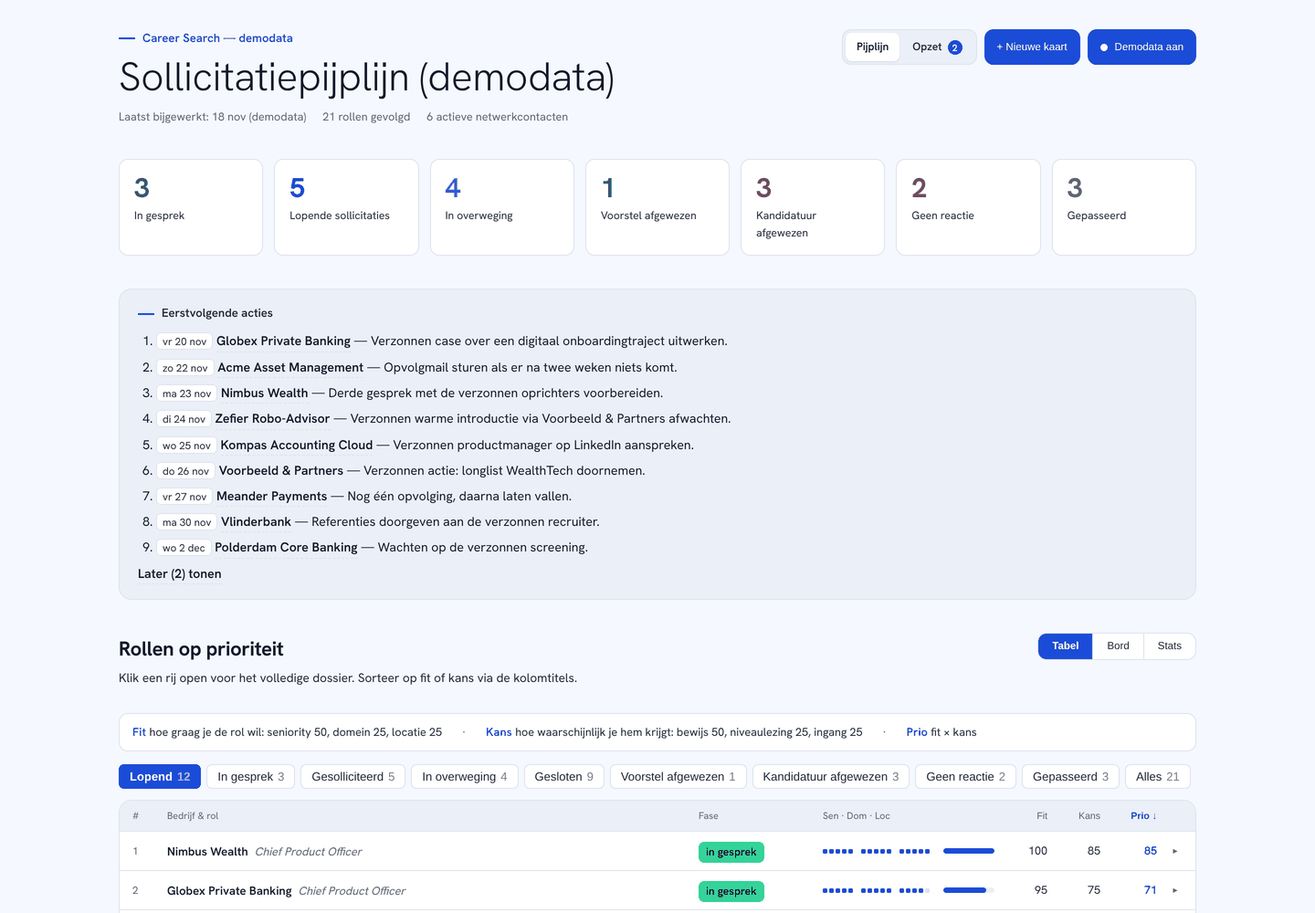
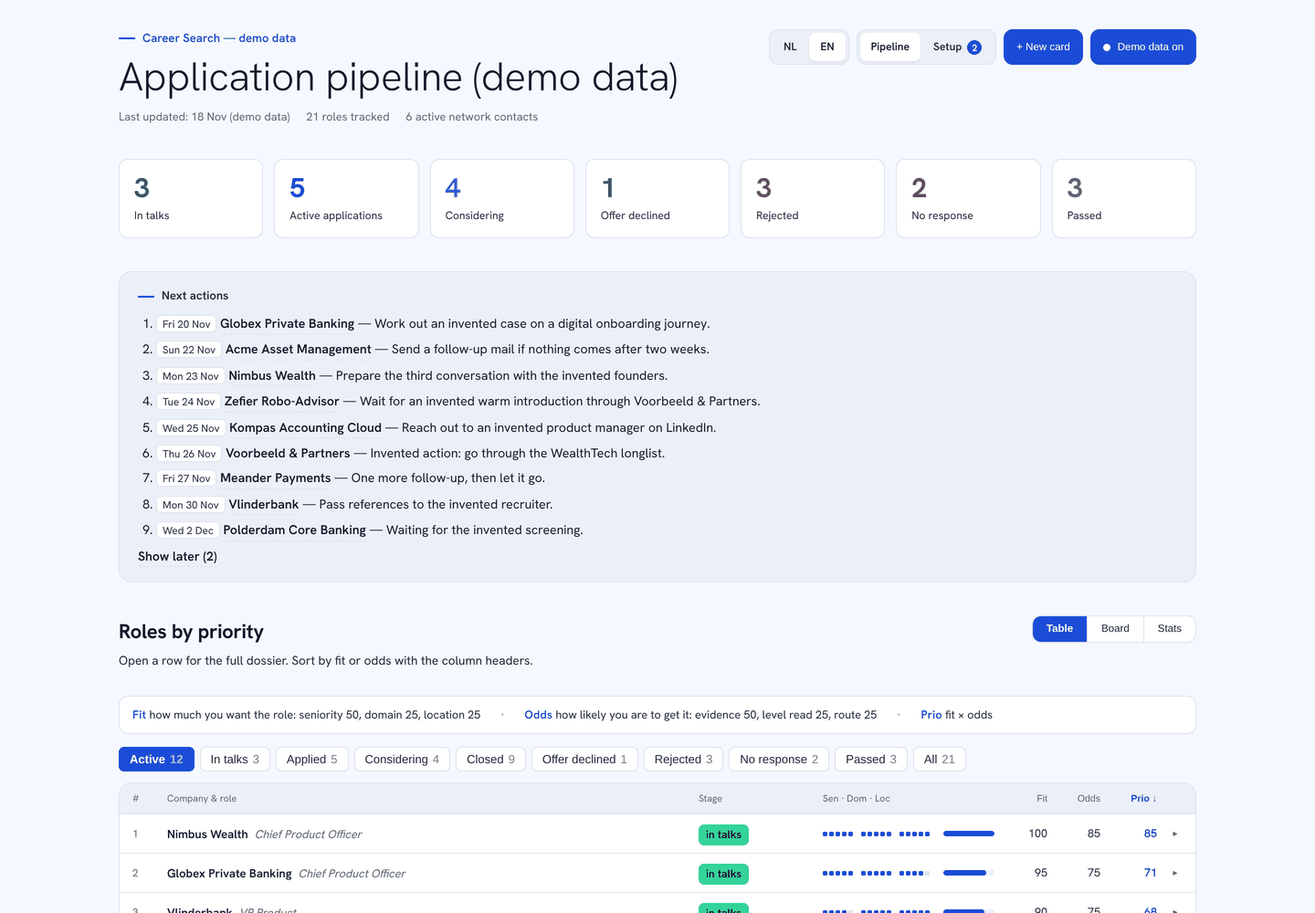
Pipeline board: NL/EN switch (0.5.0); English screenshots
Claude-Session: https://claude.ai/code/session_01RCXGWAHNYweCDBp5A3FN8U

diff --git a/plugins/career-search/skills/career-pipeline-tracker/assets/pipeline-board.html b/plugins/career-search/skills/career-pipeline-tracker/assets/pipeline-board.html
@@ -612,6 +612,7 @@
       <div class="meta-row" id="metaRow"></div>
     </div>
     <div class="head-actions">
+      <div class="page-switch lang-switch" role="group" aria-label="Taal"><button type="button" data-lang="nl" aria-pressed="true">NL</button><button type="button" data-lang="en" aria-pressed="false">EN</button></div>
       <div class="page-switch" role="group" aria-label="Pagina"><button type="button" data-page="pipe" aria-pressed="true">Pijplijn</button><button type="button" data-page="setup" aria-pressed="false">Opzet <span class="badge" id="setupBadge" hidden></span></button></div>
       <button type="button" class="btn primary" id="newCardBtn">+ Nieuwe kaart</button>
       <button type="button" class="anon-toggle" id="anonToggle" aria-pressed="false" title="Wissel naar een volledig verzonnen pijplijn">
@@ -2123,6 +2124,7 @@
       "",
       "VELDEN: stage = interview | applied | explore | declined | rejected | noreply | ruledout. Gebruik rejected enkel bij een expliciet nee, noreply bij stilte of een vacature die dichtging zonder antwoord, declined wanneer {{FIRST_NAME}} een aanbod kreeg en het zelf afwees, en ruledout wanneer {{FIRST_NAME}} passeert voor er een aanbod lag. pillLabel = kort Nederlands label (bv. 'interview 20 okt'). dateStamp = korte voetregel, bestaande tekst aanvullen met ' · ' (bv. 'gesolliciteerd 20 sept · interview 20 okt'). Datums ISO (YYYY-MM-DD). motivationLetter = yes|no|unknown. applicationType = easy_apply|extended|unknown.",
       "",
+      (window.__boardLang === "en" ? "TAAL: de gebruiker leest het bord in het Engels. Schrijf je antwoord én alle veldteksten (pillLabel, detail, nextStep, dateStamp, dossier, logregels) in het Engels." : ""),
       "STIJL: Nederlands, kort en direct. Veldteksten als compacte zinsfragmenten, zoals de bestaande data. Geen em-dashes. Je antwoord aan {{FIRST_NAME}}: gewone tekst, enkele korte alinea's, geen markdown-koppen. Eindig na een wijziging met één zin over wat je aanpaste.",
       "",
       "KAART (id " + id + "):",
@@ -2434,7 +2436,7 @@
       "2. Zes regels, één per component, in gewone tekst: 'Seniority 4: …', 'Domein 3: …', 'Locatie 5: …', 'Bewijs 3: …', 'Niveau 4: …', 'Ingang 2: …'. Eén zin per regel. Meld mandaatregel of org-scope-modifier als die spelen.",
       "3. Eén regel 'Fit X · Kans Y · Prio Z · band B'.",
       "4. Daarna één ```json codeblok met één object met deze velden: id (kleine letters met koppeltekens, bedrijfsnaam), company, role (functietitel + locatie/hybride), stage ('explore' tenzij {{FIRST_NAME}} iets anders zegt), pillLabel (kort Nederlands), detail (1-3 zinnen Nederlands: wat het bedrijf is, de rol, sterkste punten en gaten; compacte stijl, geen em-dashes), nextStep, nextStepDate (ISO-datum waarop {{FIRST_NAME}} de volgende stap zet; standaard binnen een week), dateStamp (bv. 'op radar " + shortDate(today()) + "'), dateOnRadar ('" + today() + "'), vacancyUrl (of ''), applyUrl (of ''), senScore, domScore, locScore, evScore, lvlScore, rteScore, reasoning (object met sen, dom, loc, ev, lvl, rte: dezelfde zinnen als hierboven), dossier (korte tekst met kopjes 'Bron:', 'Open vragen:').",
-      "Geen markdown-koppen, geen em-dashes, Nederlands."
+      (window.__boardLang === "en" ? "No markdown headings, no em dashes, English: all field texts in English." : "Geen markdown-koppen, geen em-dashes, Nederlands.")
     ].join("\n");
     var full = "", ok = false;
     function visible(t){ var i = t.indexOf("```"); return (i === -1 ? t : t.slice(0, i)).trim(); }
@@ -2805,4 +2807,145 @@
 
 
 
+
+<script>
+// =========================================================================
+// NL / EN. The page is written in Dutch; in English mode every text node and
+// placeholder/title/aria-label is swapped through a dictionary (exact match)
+// and a few patterns for texts with numbers and dates. Data the candidate
+// wrote stays in the language it was written in. The original Dutch is kept
+// per node, so switching back restores it without a reload.
+// =========================================================================
+(function(){
+  var DEFAULT_LANG = "nl";
+  var EN = {"Pijplijn": "Pipeline", "Opzet": "Setup", "Pagina": "Page", "Taal": "Language", "+ Nieuwe kaart": "+ New card", "Nieuwe kaart": "New card", "Demodata": "Demo data", "Demodata aan": "Demo data on", "Demodata.": "Demo data.", "Wissel naar een volledig verzonnen pijplijn": "Switch to a fully invented pipeline", "Sollicitatiepijplijn": "Application pipeline", "Sollicitatiepijplijn (demodata)": "Application pipeline (demo data)", "Career Search — demodata": "Career Search — demo data", "Alle bedrijven, contacten, data, scores en statussen op deze pagina zijn verzonnen. De echte pijplijn wordt in deze weergave niet gelezen en niet getoond, dus een demo geeft niets prijs over waar de zoektocht staat. Het dossierpaneel, het logboek en de chat werken gewoon, maar schrijven enkel naar het geheugen van deze browser: ververs de pagina en de demo staat weer op de beginstand.": "All companies, contacts, dates, scores and statuses on this page are invented. The real pipeline is not read or shown in this view, so a demo reveals nothing about where the search stands. The dossier panel, the log and the chat work as usual, but only write to this browser's memory: refresh the page and the demo is back to its starting state.", "Kan de gegevensopslag van deze pagina niet bereiken. Ververs de pagina, of vraag Claude de data opnieuw te schrijven.": "Can't reach this page's data store. Refresh the page, or ask Claude to write the data again.", "In gesprek": "In talks", "Lopende sollicitaties": "Active applications", "In overweging": "Considering", "Voorstel afgewezen": "Offer declined", "Kandidatuur afgewezen": "Rejected", "Geen reactie": "No response", "Gepasseerd": "Passed", "Gesloten": "Closed", "Gesolliciteerd": "Applied", "Lopend": "Active", "Alles": "All", "in gesprek": "in talks", "gesolliciteerd": "applied", "overweging": "considering", "voorstel afgewezen": "offer declined", "kandidatuur afgewezen": "rejected", "geen reactie": "no response", "gepasseerd": "passed", "geen antwoord": "no answer", "Eerstvolgende acties": "Next actions", "Rollen op prioriteit": "Roles by priority", "Rollen per fase": "Roles by stage", "Wat de pijplijn tot nu toe oplevert": "What the pipeline has produced so far", "Klik een rij open voor het volledige dossier. Sorteer op fit of kans via de kolomtitels.": "Open a row for the full dossier. Sort by fit or odds with the column headers.", "Van eerste screening tot afgesloten dossier. Binnen elke kolom staan de kaarten op prioriteit.": "From first screening to closed dossier. Within each column, cards are sorted by priority.", "Uitkomsten van de afgesloten dossiers, de reactiegraad op verstuurde sollicitaties, en waar de lopende pijplijn op de drie criteria staat.": "Outcomes of closed dossiers, the response rate on applications sent, and where the active pipeline stands on the three criteria.", "Weergave": "View", "Tabel": "Table", "Bord": "Board", "Stats": "Stats", "Fit": "Fit", "Kans": "Odds", "Prio": "Prio", "Prio ↓": "Prio ↓", "· Kans": "· Odds", "· Prio": "· Prio", "hoe graag je de rol wil: seniority 50, domein 25, locatie 25": "how much you want the role: seniority 50, domain 25, location 25", "hoe waarschijnlijk je hem krijgt: bewijs 50, niveaulezing 25, ingang 25": "how likely you are to get it: evidence 50, level read 25, route 25", "fit × kans": "fit × odds", "#": "#", "Bedrijf & rol": "Company & role", "Fase": "Stage", "Sen · Dom · Loc": "Sen · Dom · Loc", "Vacature ↗": "Posting ↗", "Solliciteren ↗": "Apply ↗", "Dossier & chat ›": "Dossier & chat ›", "Demodossier, volledig verzonnen.": "Demo dossier, fully invented.", "Uitkomst van de afgesloten dossiers": "Outcome of closed dossiers", "Reactiegraad op verstuurde sollicitaties": "Response rate on applications sent", "Geantwoord zijn de tegels": "Answered are the tiles", "Geantwoord": "Answered", "Wachten": "Waiting", "Geen antwoord na sollicitatie": "No answer after applying", "Totaal verstuurd": "Total sent", "Mediane tijd tot afwijzing": "Median time to rejection", "Snelste": "Fastest", "· traagste": "· slowest", "dagen": "days", "Een nee binnen enkele dagen is bijna altijd een harde domeingap of een niveaulezing. Stilte zegt vooral iets over het kanaal, niet over het dossier.": "A no within a few days is almost always a hard domain gap or a level read. Silence says more about the channel than about the dossier.", "Fit tegen kans": "Fit against odds", "Houd de cursor op een stip voor bedrijf en scores.": "Hover over a dot for company and scores.", "Spreidingsdiagram van fit tegen kans per lopende rol": "Scatter plot of fit against odds per active role", "rollen zitten boven de mediane fit maar onder de mediane kans: hoge aantrekkelijkheid, lage slaagkans, dus daar werkt een introductie beter dan een zoveelste sollicitatie.": "roles sit above the median fit but below the median odds: attractive but hard to win, so an introduction works better there than yet another application.", "Samenstelling van de lopende pijplijn": "Make-up of the active pipeline", "donkerder is een hogere score": "darker is a higher score", "Hier zie je waar de pijplijn scheef zit. Veel massa links bij": "This shows where the pipeline is skewed. A lot of mass on the left at", "betekent dat je vooral buiten de dagpendelzone solliciteert, veel massa links bij": "means you mostly apply outside daily-commute range, a lot of mass on the left at", "dat je onder je eigen niveau zit.": "means you are below your own level.", "en": "and", "is jouw eigen beslissing voor er iets gebeurde,": "is your own decision before anything happened,", "is een aanbod dat je zelf geweigerd hebt,": "is an offer you turned down yourself,", "is een expliciet nee op jouw kandidatuur,": "is an explicit no to your application,", "is stilte of een vacature die dichtging zonder antwoord. De grootste groep is nu": "is silence, or a posting that closed without an answer. The largest group now is", "zijn dossiers die nog in gesolliciteerd staan, dus nog niet beantwoord en nog niet stil. Passeerde je een dossier nadat je solliciteerde, dan telt het hier als": "are dossiers still in applied: not answered yet, and not silent yet. If you passed on a dossier after applying, it counts here as", ": zij lieten niets horen. Passeerde je voor je solliciteerde, dan staat er niets om op te antwoorden en telt het hier niet mee.": ": they never replied. If you passed before applying, there was nothing to answer and it doesn't count here.", "Sen": "Sen", "Dom": "Dom", "Loc": "Loc", "Netwerk & recruiters": "Network & recruiters", "Losstaand van formele sollicitaties: warme contacten, recruiters en verkennende gesprekken. Klik op een statustekst om het volledige verhaal op volle breedte te lezen.": "Apart from formal applications: warm contacts, recruiters and exploratory conversations. Click a status text to read the full story at full width.", "Contact": "Contact", "Type": "Type", "Organisatie / rol": "Organisation / role", "Status": "Status", "Laatste actie": "Last action", "Sorteer op laatste actie": "Sort by last action", "Afgesloten contacten": "Closed contacts", "Alle types": "All types", "Executive search": "Executive search", "Consultancy": "Consultancy", "Overig": "Other", "Geen gekoppelde contacten.": "No linked contacts.", "Top-of-funnel:": "Top of funnel:", "Deze weergave bevat geen enkele regel uit een echt dossier.": "This view contains not a single line from a real dossier.", "Sluiten": "Close", "Versturen": "Send", "Stop": "Stop", "Chat": "Chat", "Kaart": "Card", "▸ Dossier": "▸ Dossier", "Enter verstuurt · Shift+Enter nieuwe regel": "Enter sends · Shift+Enter new line", "Nieuws, een update of een vraag over dit dossier…": "News, an update or a question about this dossier…", "Plak een vacature, een link met wat context, of beschrijf bedrijf en rol.": "Paste a posting, a link with some context, or describe the company and role.", "Plak hier de vacature of beschrijf bedrijf en rol…": "Paste the posting here or describe the company and role…", "Klik op de knop om een voorstel te maken": "Click the button to get a proposal", "Voorstel maken": "Make a proposal", "Opnieuw voorstellen": "Propose again", "Kaart aanmaken": "Create card", "Claude legt eerst per scorecomponent uit hoe hij scoort, en stelt daarna de kaart voor. Je ziet de redenering verschijnen terwijl hij schrijft. Er wordt niets aangemaakt voor je op de knop klikt. Een researchbrief of CV maak je daarna in Cowork.": "Claude first explains each score component, then proposes the card. You see the reasoning appear as it writes. Nothing is created until you click the button. Make a research brief or CV afterwards in a Claude task.", "Scoremodel lezen en nadenken": "Reading the scoring model and thinking", "Scoremodel lezen": "Reading the scoring model", "Nadenken over de rol": "Thinking about the role", "Kaart opstellen": "Drafting the card", "Redeneert": "Reasoning", "Denkt na": "Thinking", "1 · Nadenken": "1 · Thinking", "Kaart bijwerken": "Updating card", "Dossier bijwerken": "Updating dossier", "Logboek bijwerken": "Updating log", "Contact bijwerken": "Updating contact", "Ongedaan maken": "Undo", "Gestopt.": "Stopped.", "Verder in Cowork ⧉": "Continue in a Claude task ⧉", "Gekopieerd: plak in een nieuwe Cowork-taak": "Copied: paste into a new Claude task", "Kopieer de tekst hieronder": "Copy the text below", "De chat is niet beschikbaar in deze weergave.": "Chat isn't available in this view.", "De chat is niet beschikbaar in deze weergave. Open de pijplijn in de Claude-app.": "Chat isn't available in this view. Open the pipeline in the Claude app.", "De chat is niet toegestaan of niet beschikbaar in deze weergave.": "Chat isn't allowed or available in this view.", "Claude weigerde dit verzoek. Formuleer het anders.": "Claude declined this request. Try phrasing it differently.", "Er ging iets mis met de verbinding. Probeer opnieuw.": "Something went wrong with the connection. Try again.", "Even te veel vragen of je gebruikslimiet is bereikt. Probeer het straks opnieuw.": "Too many requests, or your usage limit is reached. Try again later.", "Het voorstel kwam niet in het juiste formaat terug. Probeer opnieuw.": "The proposal came back in the wrong format. Try again.", "Je sessie is verlopen. Meld je opnieuw aan.": "Your session has expired. Sign in again.", "Waar je systeem staat: wat klaar is, wat nog open staat, en vragen om je verhaal gaandeweg aan te vullen.": "Where your system stands: what's done, what's still open, and questions to complete your story as you go.", "stappen klaar, zonder de optionele": "steps done, optional ones excluded", "Takenlijst": "To-do list", "Kopieer de opdracht en plak ze in een nieuwe taak bij Claude.": "Copy the instruction and paste it into a new Claude task.", "Quick start": "Quick start", "Verdieping": "Deepening", "Optioneel": "Optional", "Kopieer opdracht": "Copy instruction", "Gekopieerd": "Copied", "Kopieer hieronder": "Copy below", "Vereisten": "Requirements", "OK": "OK", "Ontbreekt": "Missing", "Onbekend": "Unknown", "Links": "Links", "Updates": "Updates", "Vragen over je verhaal": "Questions about your story", "Claude zet hier vragen wanneer je CV of je verhaal een gat heeft. Antwoord wanneer het je uitkomt; bij je volgende taak verwerkt Claude de antwoorden in je narrative.": "Claude adds questions here when your CV or your story has a gap. Answer whenever it suits you; at your next task Claude works the answers into your narrative.", "Jouw antwoord, in je eigen woorden. Cijfers en voorbeelden helpen het meest.": "Your answer, in your own words. Numbers and examples help most.", "Niet van toepassing": "Not applicable", "Bewaar antwoord": "Save answer", "Wacht op verwerking door Claude": "Waiting for Claude to process it", "Geen open vragen.": "No open questions.", "CV opladen": "Upload CV", "Oud CV en LinkedIn-export gelezen.": "Old CV and LinkedIn export read.", "Eerste versie van je verhaal": "First version of your story", "Opgebouwd uit het CV; aangevuld via de vragen hieronder.": "Built from the CV; completed through the questions below.", "Generiek CV gerenderd": "Generic CV rendered", "Eén variant, alle regels nog ⏳.": "One variant, all lines still ⏳.", "Eerste vacature analyseren": "Analyse a first vacancy", "Plak een vacature in een nieuwe chat.": "Paste a vacancy into a new chat.", "Doelrollen en CV-varianten": "Target roles and CV variants", "Standing rules": "Standing rules", "Zoekcriteria en LinkedIn-alerts": "Search criteria and LinkedIn alerts", "Scoremodel": "Scoring model", "Dagelijkse LinkedIn-screening": "Daily LinkedIn screening", "CV in je eigen huisstijl": "CV in your own house style", "Claude desktop-app met je map gekoppeld": "Claude desktop app with your folder connected", "Browser met LinkedIn ingelogd": "Browser signed in to LinkedIn", "Installeer Claude in Chrome en log in op LinkedIn in Chrome.": "Install Claude in Chrome and sign in to LinkedIn in Chrome.", "Geplande taken": "Scheduled tasks", "Wordt gecontroleerd bij het opzetten van de screening.": "Checked when the screening is set up.", "Generiek CV (PDF)": "Generic CV (PDF)", "Handleiding (README)": "Guide (README)", "Hoe de vier fases werken": "How the four phases work", "Generiek CV opnieuw gerenderd na drie nieuwe antwoorden.": "Generic CV re-rendered after three new answers.", "Plugin bijgewerkt naar 0.4.0: setup-dashboard en vragen.": "Plugin updated to 0.4.0: setup dashboard and questions.", "Hoe groot was je team bij Fictief BV, en rapporteerde je aan de CEO?": "How big was your team at Fictief BV, and did you report to the CEO?", "Bepaalt of de headline 'Head of' of 'Director' mag zeggen, en verbetert de contextregel van die rol.": "Decides whether the headline may say 'Head of' or 'Director', and improves that role's context line.", "Welk meetbaar resultaat hoort bij de migratie naar het nieuwe platform?": "Which measurable result belongs to the migration to the new platform?", "Die bullet heeft nu geen cijfer; met een resultaat wordt hij een van je sterkste regels.": "That bullet has no number yet; with a result it becomes one of your strongest lines.", "Heb je ooit een budget beheerd? Hoe groot?": "Have you ever managed a budget? How big?", "Gevraagd in twee recente vacatures.": "Asked for in two recent postings.", "Ja, het productbudget van 1,2 M€ per jaar, sinds 2023.": "Yes, the product budget of €1.2M a year, since 2023.", "Laten we mijn doelrollen en CV-varianten vastleggen.": "Let's define my target roles and CV variants.", "Help me mijn standing rules opstellen: wat mag ik wel en niet claimen?": "Help me write my standing rules: what may and may I not claim?", "Laten we mijn zoekcriteria en LinkedIn-alerts opzetten.": "Let's set up my search criteria and LinkedIn alerts.", "Stel samen met mij mijn scoremodel op.": "Let's build my scoring model together.", "Zet de dagelijkse LinkedIn-screening op.": "Set up the daily LinkedIn screening.", "Breng mijn CV in lijn met mijn huisstijl.": "Align my CV with my house style.", "Verzonnen dossier, enkel om de werking te tonen.": "Invented dossier, only to show how it works.", "Derde gesprek met de verzonnen oprichters voorbereiden.": "Prepare the third conversation with the invented founders.", "Nog één opvolging, daarna laten vallen.": "One more follow-up, then let it go.", "Opvolgmail sturen als er na twee weken niets komt.": "Send a follow-up mail if nothing comes after two weeks.", "Referenties doorgeven aan de verzonnen recruiter.": "Pass references to the invented recruiter.", "Verzonnen actie: longlist WealthTech doornemen.": "Invented action: go through the WealthTech longlist.", "Verzonnen case over een digitaal onboardingtraject uitwerken.": "Work out an invented case on a digital onboarding journey.", "Verzonnen productmanager op LinkedIn aanspreken.": "Reach out to an invented product manager on LinkedIn.", "Verzonnen warme introductie via Voorbeeld & Partners afwachten.": "Wait for an invented warm introduction through Voorbeeld & Partners.", "Wachten op de verzonnen screening.": "Waiting for the invented screening.", "Koffie met de verzonnen CEO vastleggen.": "Schedule coffee with the invented CEO.", "Verzonnen vacaturepagina in de gaten houden.": "Keep an eye on the invented careers page.", "Drie verzonnen gesprekken in september, daarna een aanbod.": "Three invented interviews in September, then an offer.", "Eerste gesprek 1 oktober, tweede gesprek 15 oktober (verzonnen).": "First interview 1 October, second 15 October (invented).", "Kennismaking 6 oktober (verzonnen).": "Intro call 6 October (invented).", "Twee gesprekken in oktober (verzonnen).": "Two interviews in October (invented).", "Op de radar gezet via een verzonnen vacature op LinkedIn.": "Put on the radar through an invented LinkedIn posting.", "Afwijzing ontvangen. Verzonnen regel.": "Rejection received. Invented line.", "CV verstuurd. Verzonnen regel, net als de rest van dit dossier.": "CV sent. Invented line, like the rest of this dossier.", "Fictief analytics-huis. Demoverhaal: ze gingen voor een interne kandidaat.": "Fictional analytics firm. Demo story: they went for an internal candidate.", "Fictief consultancyhuis in Brussel. In dit demoverhaal een partnerrol met een eigen productpraktijk.": "Fictional consultancy in Brussels. In this demo story, a partner role with its own product practice.", "Fictief platform in Luxemburg. Demoverhaal: sollicitatie verstuurd, daarna stilte.": "Fictional platform in Luxembourg. Demo story: application sent, then silence.", "Fictief platform in Zürich. Demoverhaal: het aanbod kwam er, maar de kandidaat wees het zelf af omdat de verhuizing niet paste.": "Fictional platform in Zurich. Demo story: the offer came, but the candidate declined because relocating didn't fit.", "Fictieve WealthTech in Brussel, 90 mensen. In dit demoverhaal zoeken ze een eerste CPO om het platform van projectwerk naar product te brengen.": "Fictional WealthTech in Brussels, 90 people. In this demo story they want a first CPO to move the platform from project work to product.", "Fictieve beleggingsapp in Parijs. Nog geen openstaande rol in dit demoverhaal, wel een CPO die vertrekt.": "Fictional investing app in Paris. No open role yet in this demo story, but a CPO who is leaving.", "Fictieve betaalspeler in Amsterdam. Weekpendel in dit demoverhaal, wat de locatiescore drukt.": "Fictional payments company in Amsterdam. A weekly commute in this demo story, which lowers the location score.", "Fictieve corebanking-leverancier. Het demoverhaal: veel legacy, een roadmap die door klanten gedicteerd wordt.": "Fictional core-banking vendor. The demo story: lots of legacy, a roadmap dictated by clients.", "Fictieve industriële groep. Demoverhaal: productrol zonder eigen team, dus gepasseerd.": "Fictional industrial group. Demo story: a product role without its own team, so passed.", "Fictieve insurtech. Demoverhaal: afgewezen omdat ze iemand met schadeverzekering-ervaring wilden.": "Fictional insurtech. Demo story: rejected because they wanted property-insurance experience.", "Fictieve retailbank die in dit demoverhaal drie productteams samenvoegt onder één VP.": "Fictional retail bank that, in this demo story, merges three product teams under one VP.", "Verzonnen B2B-SaaS in Leuven, 60 mensen. Demoverhaal: breed mandaat, smal domein.": "Invented B2B SaaS in Leuven, 60 people. Demo story: broad mandate, narrow domain.", "Verzonnen HR-software. Demoverhaal: nee binnen een week, te ver van hun domein.": "Invented HR software. Demo story: a no within a week, too far from their domain.", "Verzonnen boekhoudsoftware voor kmo's, 120 mensen, in dit demoverhaal net na een eerste groeironde.": "Invented accounting software for SMEs, 120 people, just after a first growth round in this demo story.", "Verzonnen cybersecurity-speler. In dit demoverhaal zelf gepasseerd: het domein ligt te ver.": "Invented cybersecurity company. Passed in this demo story: the domain is too far.", "Verzonnen dossier dat in dit demoverhaal nooit antwoord kreeg na een snelle sollicitatie.": "Invented dossier that never got an answer after a quick application in this demo story.", "Verzonnen legal-tech met 35 mensen. Laagste prioriteit in dit demoverhaal: klein mandaat, ver domein.": "Invented legal tech with 35 people. Lowest priority in this demo story: small mandate, distant domain.", "Verzonnen private bank met 400 mensen. Het demoverhaal: de productrol bestaat nog niet en moet naast IT een eigen mandaat krijgen.": "Invented private bank with 400 people. The demo story: the product role doesn't exist yet and needs its own mandate next to IT.", "Verzonnen robo-advisor met 40 mensen, in dit demoverhaal op zoek naar iemand die het advieskader kan uitleggen aan toezichthouders.": "Invented robo-advisor with 40 people, looking in this demo story for someone who can explain the advice framework to regulators.", "Verzonnen telecomgroep. Demoverhaal: een niveau te laag, dus niet verder gezet.": "Invented telecom group. Demo story: one level too low, so not pursued.", "Verzonnen vermogensbeheerder, 250 mensen. Vacature in dit demoverhaal: een platform voor discretionair beheer.": "Invented wealth manager, 250 people. Posting in this demo story: a discretionary management platform.", "Verzonnen contact: dossier is afgewezen, contact blijft open voor later.": "Invented contact: dossier rejected, contact stays open for later.", "Verzonnen contact: eerste ingang bij Globex, kent het mandaat van binnenuit.": "Invented contact: first way in at Globex, knows the mandate from the inside.", "Verzonnen contact: freelance-opdrachten in betalingen, achter de hand gehouden.": "Invented contact: freelance assignments in payments, kept in reserve.", "Verzonnen contact: heeft het dossier bij Nimbus Wealth binnengebracht.": "Invented contact: brought in the Nimbus Wealth dossier.", "Verzonnen contact: houdt twee CPO-mandaten in WealthTech open en belt terug zodra er beweging is.": "Invented contact: holds two CPO mandates in WealthTech open and calls back as soon as something moves.", "Verzonnen contact: praat over een partnerrol met eigen productpraktijk.": "Invented contact: discussing a partner role with its own product practice.", "Verzonnen contact: tegenpartij in het tweede gesprek, wil de productorganisatie samen opzetten.": "Invented contact: counterpart in the second interview, wants to build the product organisation together.", "Verzonnen contact: zoekt vooral rollen een niveau lager, afgerond.": "Invented contact: mostly looks for roles one level lower, closed.", "Een verzonnen pijplijn om de tool te laten zien. Alle bedrijven, mensen, data en statussen hieronder zijn fictief.": "An invented pipeline to show the tool. All companies, people, dates and statuses below are fictional.", "Voorbeeld & Partners, partner financiële diensten": "Voorbeeld & Partners, partner financial services", "· Voorbeeld & Partners, partner financiële diensten": "· Voorbeeld & Partners, partner financial services"};
+  var DAY = { ma:"Mon", di:"Tue", wo:"Wed", do:"Thu", vr:"Fri", za:"Sat", zo:"Sun" };
+  var MON = { jan:"Jan", feb:"Feb", mrt:"Mar", maa:"Mar", apr:"Apr", mei:"May", jun:"Jun", jul:"Jul", aug:"Aug", sep:"Sep", sept:"Sep", okt:"Oct", nov:"Nov", dec:"Dec" };
+  var STAGE = { "in gesprek":"in talks", "gesolliciteerd":"applied", "overweging":"considering", "voorstel afgewezen":"offer declined",
+                "kandidatuur afgewezen":"rejected", "geen reactie":"no response", "gepasseerd":"passed" };
+  function d(s){
+    return s.replace(/\b(ma|di|wo|do|vr|za|zo) (\d{1,2}) (jan|feb|mrt|maa|apr|mei|jun|jul|aug|sept|sep|okt|nov|dec)\b/g, function(_, a, n, m){ return DAY[a] + " " + n + " " + MON[m]; })
+            .replace(/\b(\d{1,2}) (jan|feb|mrt|apr|mei|jun|jul|aug|sept|sep|okt|nov|dec)\b/g, function(_, n, m){ return n + " " + MON[m]; });
+  }
+  function tx(s){ var k = s.trim(); return EN[k] != null ? s.replace(k, EN[k]) : null; }
+  var PATTERNS = [
+    [/^Volgende stap \((.+)\):$/, function(m){ return "Next step (" + d(m[1]) + "):"; }],
+    [/^(\d+) rollen gevolgd$/, function(m){ return m[1] + " roles tracked"; }],
+    [/^(\d+) actieve netwerkcontacten$/, function(m){ return m[1] + " active network contacts"; }],
+    [/^Laatst bijgewerkt: (.+?)( \(demodata\))?$/, function(m){ return "Last updated: " + d(m[1]) + (m[2] ? " (demo data)" : ""); }],
+    [/^(.+) — fit (\d+), kans (\d+), prio (\d+)$/, function(m){ return m[1] + " — fit " + m[2] + ", odds " + m[3] + ", prio " + m[4]; }],
+    [/^score (\d): (\d+) rollen?$/, function(m){ return "score " + m[1] + ": " + m[2] + (m[2] === "1" ? " role" : " roles"); }],
+    [/^Later \((\d+)\) tonen$/, function(m){ return "Show later (" + m[1] + ")"; }],
+    [/^Beantwoord (.+)$/, function(m){ return "Answered " + m[1]; }],
+    [/^Gecontroleerd (.+)$/, function(m){ return "Checked " + m[1]; }],
+    [/^Uit: (.+)$/, function(m){ return "From: " + m[1].replace(/^vacature /, "posting ").replace(/^opzet /, "setup "); }],
+    [/^Nieuws, een update of een vraag over (.+)…$/, function(m){ return "News, an update or a question about " + m[1] + "…"; }],
+    [/^▸ Contacten \((\d+)\)$/, function(m){ return "▸ Contacts (" + m[1] + ")"; }],
+    [/^▸ Logboek \((\d+)\)$/, function(m){ return "▸ Log (" + m[1] + ")"; }],
+    [/^\(Sen (\d) Dom (\d) Loc (\d) · Bew (\d) Niv (\d) Ing (\d)\)$/, function(m){ return "(Sen " + m[1] + " Dom " + m[2] + " Loc " + m[3] + " · Evi " + m[4] + " Lvl " + m[5] + " Rte " + m[6] + ")"; }],
+    [/^\((\d+) in gesprek \+ (\d+) voorstel afgewezen \+ (\d+) kandidatuur afgewezen\)$/, function(m){ return "(" + m[1] + " in talks + " + m[2] + " offer declined + " + m[3] + " rejected)"; }],
+    [/^(\d+) gesloten dossiers, opgesplitst naar wie de deur dichtdeed\.$/, function(m){ return m[1] + " closed dossiers, split by who closed the door."; }],
+    [/^(\d+) lopende rollen\. Rechtsboven is waar de tijd naartoe hoort, rechtsonder zijn de dossiers die een warme ingang nodig hebben\.$/, function(m){ return m[1] + " active roles. Top right is where your time should go; bottom right are the dossiers that need a warm introduction."; }],
+    [/^kreeg een antwoord, (\d+) van (\d+) beslecht$/, function(m){ return "got an answer, " + m[1] + " of " + m[2] + " settled"; }],
+    [/^Stippellijnen: mediaan fit (\d+) en mediaan kans (\d+)$/, function(m){ return "Dashed lines: median fit " + m[1] + " and median odds " + m[2]; }],
+    [/^Verdeling van de scores 0 tot 5 over (\d+) lopende rollen, per criterium\.$/, function(m){ return "Distribution of scores 0 to 5 across " + m[1] + " active roles, per criterion."; }],
+    [/^: in alle drie liet de tegenpartij iets weten\. De ratio telt de (\d+) beslechte dossiers, de verdeling eronder loopt over alle (\d+) verstuurde sollicitaties\.$/, function(m){ return ": in all three the other side responded. The ratio counts the " + m[1] + " settled dossiers; the split below covers all " + m[2] + " applications sent."; }],
+    [/^Demodata: (\d+) verzonnen rollen en (\d+) verzonnen contacten, bedoeld om de werking van het bord te tonen\.$/, function(m){ return "Demo data: " + m[1] + " invented roles and " + m[2] + " invented contacts, to show how the board works."; }],
+    [/^eerste resultaat in een kwartier · (.+)$/, function(m){ return "first result in a quarter of an hour · " + m[1]; }],
+    [/^op je eigen tempo · (.+)$/, function(m){ return "at your own pace · " + m[1]; }],
+    [/^Context: (.+)$/, function(m){ return "Context: " + (EN[m[1]] || m[1]); }],
+    [/^Beslissingen: dit dossier staat op (.+)\.$/, function(m){ return "Decisions: this dossier is at " + (STAGE[m[1]] || m[1]) + "."; }],
+    [/^Open vragen: (.+)$/, function(m){ return "Open questions: " + (EN[m[1]] || m[1]); }],
+    [/^— (.+)$/, function(m){ var t = EN[m[1]]; return t ? "— " + t : null; }],
+    [/^· (\d{1,2} \w+)$/, function(m){ return "· " + d(m[1]); }]
+  ];
+  function translate(s){
+    if(!s || !/[A-Za-zÀ-ÿ]/.test(s)) return s;
+    var t = tx(s); if(t != null) return t;
+    var k = s.trim();
+    for(var i = 0; i < PATTERNS.length; i++){
+      var m = PATTERNS[i][0].exec(k);
+      if(m){ var r = PATTERNS[i][1](m); if(r != null) return s.replace(k, r); }
+    }
+    if(k.indexOf("\n") >= 0){
+      return s.split("\n").map(function(line){ return line.trim() ? translate(line) : line; }).join("\n");
+    }
+    return d(s);
+  }
+
+  function pref(){ try{ return localStorage.getItem("pijplijn.lang") || DEFAULT_LANG; }catch(e){ return DEFAULT_LANG; } }
+  var lang = pref();
+  window.__boardLang = lang;
+  var ORIG = new WeakMap();
+  var ATTRS = ["placeholder", "title", "aria-label"];
+  var busy = false;
+
+  function doText(n){
+    var p = n.parentElement;
+    if(!p || p.closest("script,style,textarea")) return;
+    var orig = ORIG.has(n) ? ORIG.get(n) : n.nodeValue;
+    var want = lang === "en" ? translate(orig) : orig;
+    if(!ORIG.has(n)) ORIG.set(n, orig);
+    if(n.nodeValue !== want) n.nodeValue = want;
+  }
+  function doAttrs(el){
+    ATTRS.forEach(function(a){
+      if(!el.hasAttribute(a)) return;
+      var key = "data-nl-" + a;
+      var orig = el.hasAttribute(key) ? el.getAttribute(key) : el.getAttribute(a);
+      if(!el.hasAttribute(key)) el.setAttribute(key, orig);
+      var want = lang === "en" ? translate(orig) : orig;
+      if(el.getAttribute(a) !== want) el.setAttribute(a, want);
+    });
+  }
+  function walk(root){
+    busy = true;
+    try{
+      if(root.nodeType === 3){ doText(root); return; }
+      if(root.nodeType !== 1) return;
+      doAttrs(root);
+      var w = document.createTreeWalker(root, NodeFilter.SHOW_TEXT | NodeFilter.SHOW_ELEMENT);
+      var n;
+      while((n = w.nextNode())){ if(n.nodeType === 3) doText(n); else doAttrs(n); }
+    }finally{ busy = false; }
+  }
+  function applyLang(){
+    document.documentElement.lang = lang;
+    document.querySelectorAll("[data-lang]").forEach(function(b){ b.setAttribute("aria-pressed", b.getAttribute("data-lang") === lang ? "true" : "false"); });
+    walk(document.body);
+    document.title = lang === "en" ? translate(ORIG_TITLE) : ORIG_TITLE;
+  }
+  var ORIG_TITLE = document.title;
+
+  new MutationObserver(function(muts){
+    if(busy) return;
+    muts.forEach(function(m){
+      if(m.type === "characterData"){
+        // A render wrote new text into an existing node: that text is the new original.
+        if(ORIG.has(m.target)){ var v = m.target.nodeValue; if(lang !== "en" || v !== translate(ORIG.get(m.target))) ORIG.set(m.target, v); }
+        walk(m.target);
+      }else if(m.type === "attributes"){
+        if(ATTRS.indexOf(m.attributeName) >= 0 && m.target.hasAttribute("data-nl-" + m.attributeName)){
+          var cur = m.target.getAttribute(m.attributeName);
+          var o = m.target.getAttribute("data-nl-" + m.attributeName);
+          if(cur !== (lang === "en" ? translate(o) : o)) m.target.setAttribute("data-nl-" + m.attributeName, cur);
+        }
+        walk(m.target);
+      }else{
+        m.addedNodes.forEach(walk);
+      }
+    });
+  }).observe(document.body, { childList:true, subtree:true, characterData:true, attributes:true, attributeFilter:ATTRS });
+
+  document.addEventListener("click", function(ev){
+    var b = ev.target.closest("[data-lang]");
+    if(!b) return;
+    lang = b.getAttribute("data-lang");
+    window.__boardLang = lang;
+    try{ localStorage.setItem("pijplijn.lang", lang); }catch(e){}
+    applyLang();
+  });
+  applyLang();
+})();
+</script>
 </body></html>

diff --git a/plugins/career-search/skills/career-pipeline-tracker/references/pipeline-schema.md b/plugins/career-search/skills/career-pipeline-tracker/references/pipeline-schema.md
@@ -57,7 +57,8 @@ One document per network or recruiter contact. Doc id: a lowercase-hyphenated na
 
 The page ships with this skill as `assets/pipeline-board.html`: a kanban board with status cells, Fit / Winnability / Priority computed in the page, a next-actions list, per-card drawer with dossier, log and a chat that updates the card, a "new card" assistant that scores from `meta/scoring`, analytics, a contacts table and a demo mode with invented data. It holds no data and is styled in the plugin author's house style (Hanken Grotesk, blue accent, bright status colours).
 
-1. Copy the file and replace the placeholders: `{{FULL_NAME}}`, `{{FIRST_NAME}}`, `{{INITIAL}}` (favicon letter) and `{{CANDIDATE_CONTEXT}}` (one line in the page's language: current or last role, where they live, which roles they look for). The page's labels and assistant prompts are in Dutch; for another conversation language, translate the visible labels and the prompt texts, and nothing else.
+1. Copy the file and replace the placeholders: `{{FULL_NAME}}`, `{{FIRST_NAME}}`, `{{INITIAL}}` (favicon letter) and `{{CANDIDATE_CONTEXT}}` (one line: current or last role, where they live, which roles they look for).
+   The page has an **NL / EN switch** in the header; each viewer's choice is remembered in their browser. Set the default to the candidate's conversation language by changing `var DEFAULT_LANG = "nl";` to `"en"` when needed. In English mode the in-page Claude also writes field texts in English. For a third language, add a dictionary next to the English one (`EN` in the last script block) and a button, rather than editing the Dutch texts.
 2. Publish it as a new artifact titled with `tools.pipeline_title`, and declare the capabilities `db` and `sample` (the database and the in-page Claude calls).
 3. Write `meta/board` (title, subtitle, lastCompiled) and `meta/scoring` (the scoring model text).
 4. Put the artifact URL in `tools.pipeline_artifact` in profile.yaml.

diff --git a/README.md b/README.md
@@ -21,7 +21,7 @@ Updates arrive through the marketplace: your own files (narrative, CV base, rule
 
 <img src="docs/images/sample-cv.png" alt="Sample CV rendered by the plugin" width="560">
 
-**A scored pipeline.** Every role gets a Fit and a Winnability score, a next step and a dossier with its own chat. Board, ranked table and stats views. Shown here with the built-in demo data (labels are in Dutch):
+**A scored pipeline.** Every role gets a Fit and a Winnability score, a next step and a dossier with its own chat. Board, ranked table and stats views. Shown here with the built-in demo data. The page has an NL / EN switch:
 
 ![Pipeline overview](docs/images/pipeline-overview.png)
 
@@ -55,7 +55,7 @@ flowchart LR
 | 3 | `vacancy-analysis` | Candid fit assessment, scores, how to apply, interview prep. Paste a posting to start. |
 | 3 | `company-brief` | One-page research brief, or prep for a call with a named person. |
 | 3 | `cv-tailoring` | Proposes a change list against your approved CV base (you never re-read a full CV), renders an ATS-safe two-page PDF, validates it in a Check file. |
-| 4 | `career-pipeline-tracker` | Keeps a scored kanban page of all roles and contacts up to date, in the same turn anything changes. The page itself ships with the plugin (no data, in the author's house style, labels in Dutch) and has its own chat per card. |
+| 4 | `career-pipeline-tracker` | Keeps a scored kanban page of all roles and contacts up to date, in the same turn anything changes. The page itself ships with the plugin (no data, in the author's house style, with an NL / EN switch) and has its own chat per card. |
 
 Your writing style is a separate, personal skill. If you don't have one, use `setup-writing-style` and put its name in your profile.
 

diff --git a/plugins/career-search/README.md b/plugins/career-search/README.md
@@ -20,7 +20,7 @@ flowchart LR
 | 3 | `vacancy-analysis` | Candid fit assessment, scores, how to apply, interview prep. Paste a posting to start. |
 | 3 | `company-brief` | One-page research brief, or prep for a call with a named person. |
 | 3 | `cv-tailoring` | Proposes a change list against your approved CV base (you never re-read a full CV), renders an ATS-safe two-page PDF, validates it in a Check file. |
-| 4 | `career-pipeline-tracker` | Keeps a scored kanban page of all roles and contacts up to date, in the same turn anything changes. The page itself ships with the plugin (no data, in the author's house style, labels in Dutch) and has its own chat per card. |
+| 4 | `career-pipeline-tracker` | Keeps a scored kanban page of all roles and contacts up to date, in the same turn anything changes. The page itself ships with the plugin (no data, in the author's house style, with an NL / EN switch) and has its own chat per card. |
 
 Your writing style is a separate, personal skill. If you don't have one, use `setup-writing-style` and put its name in your profile.
 
